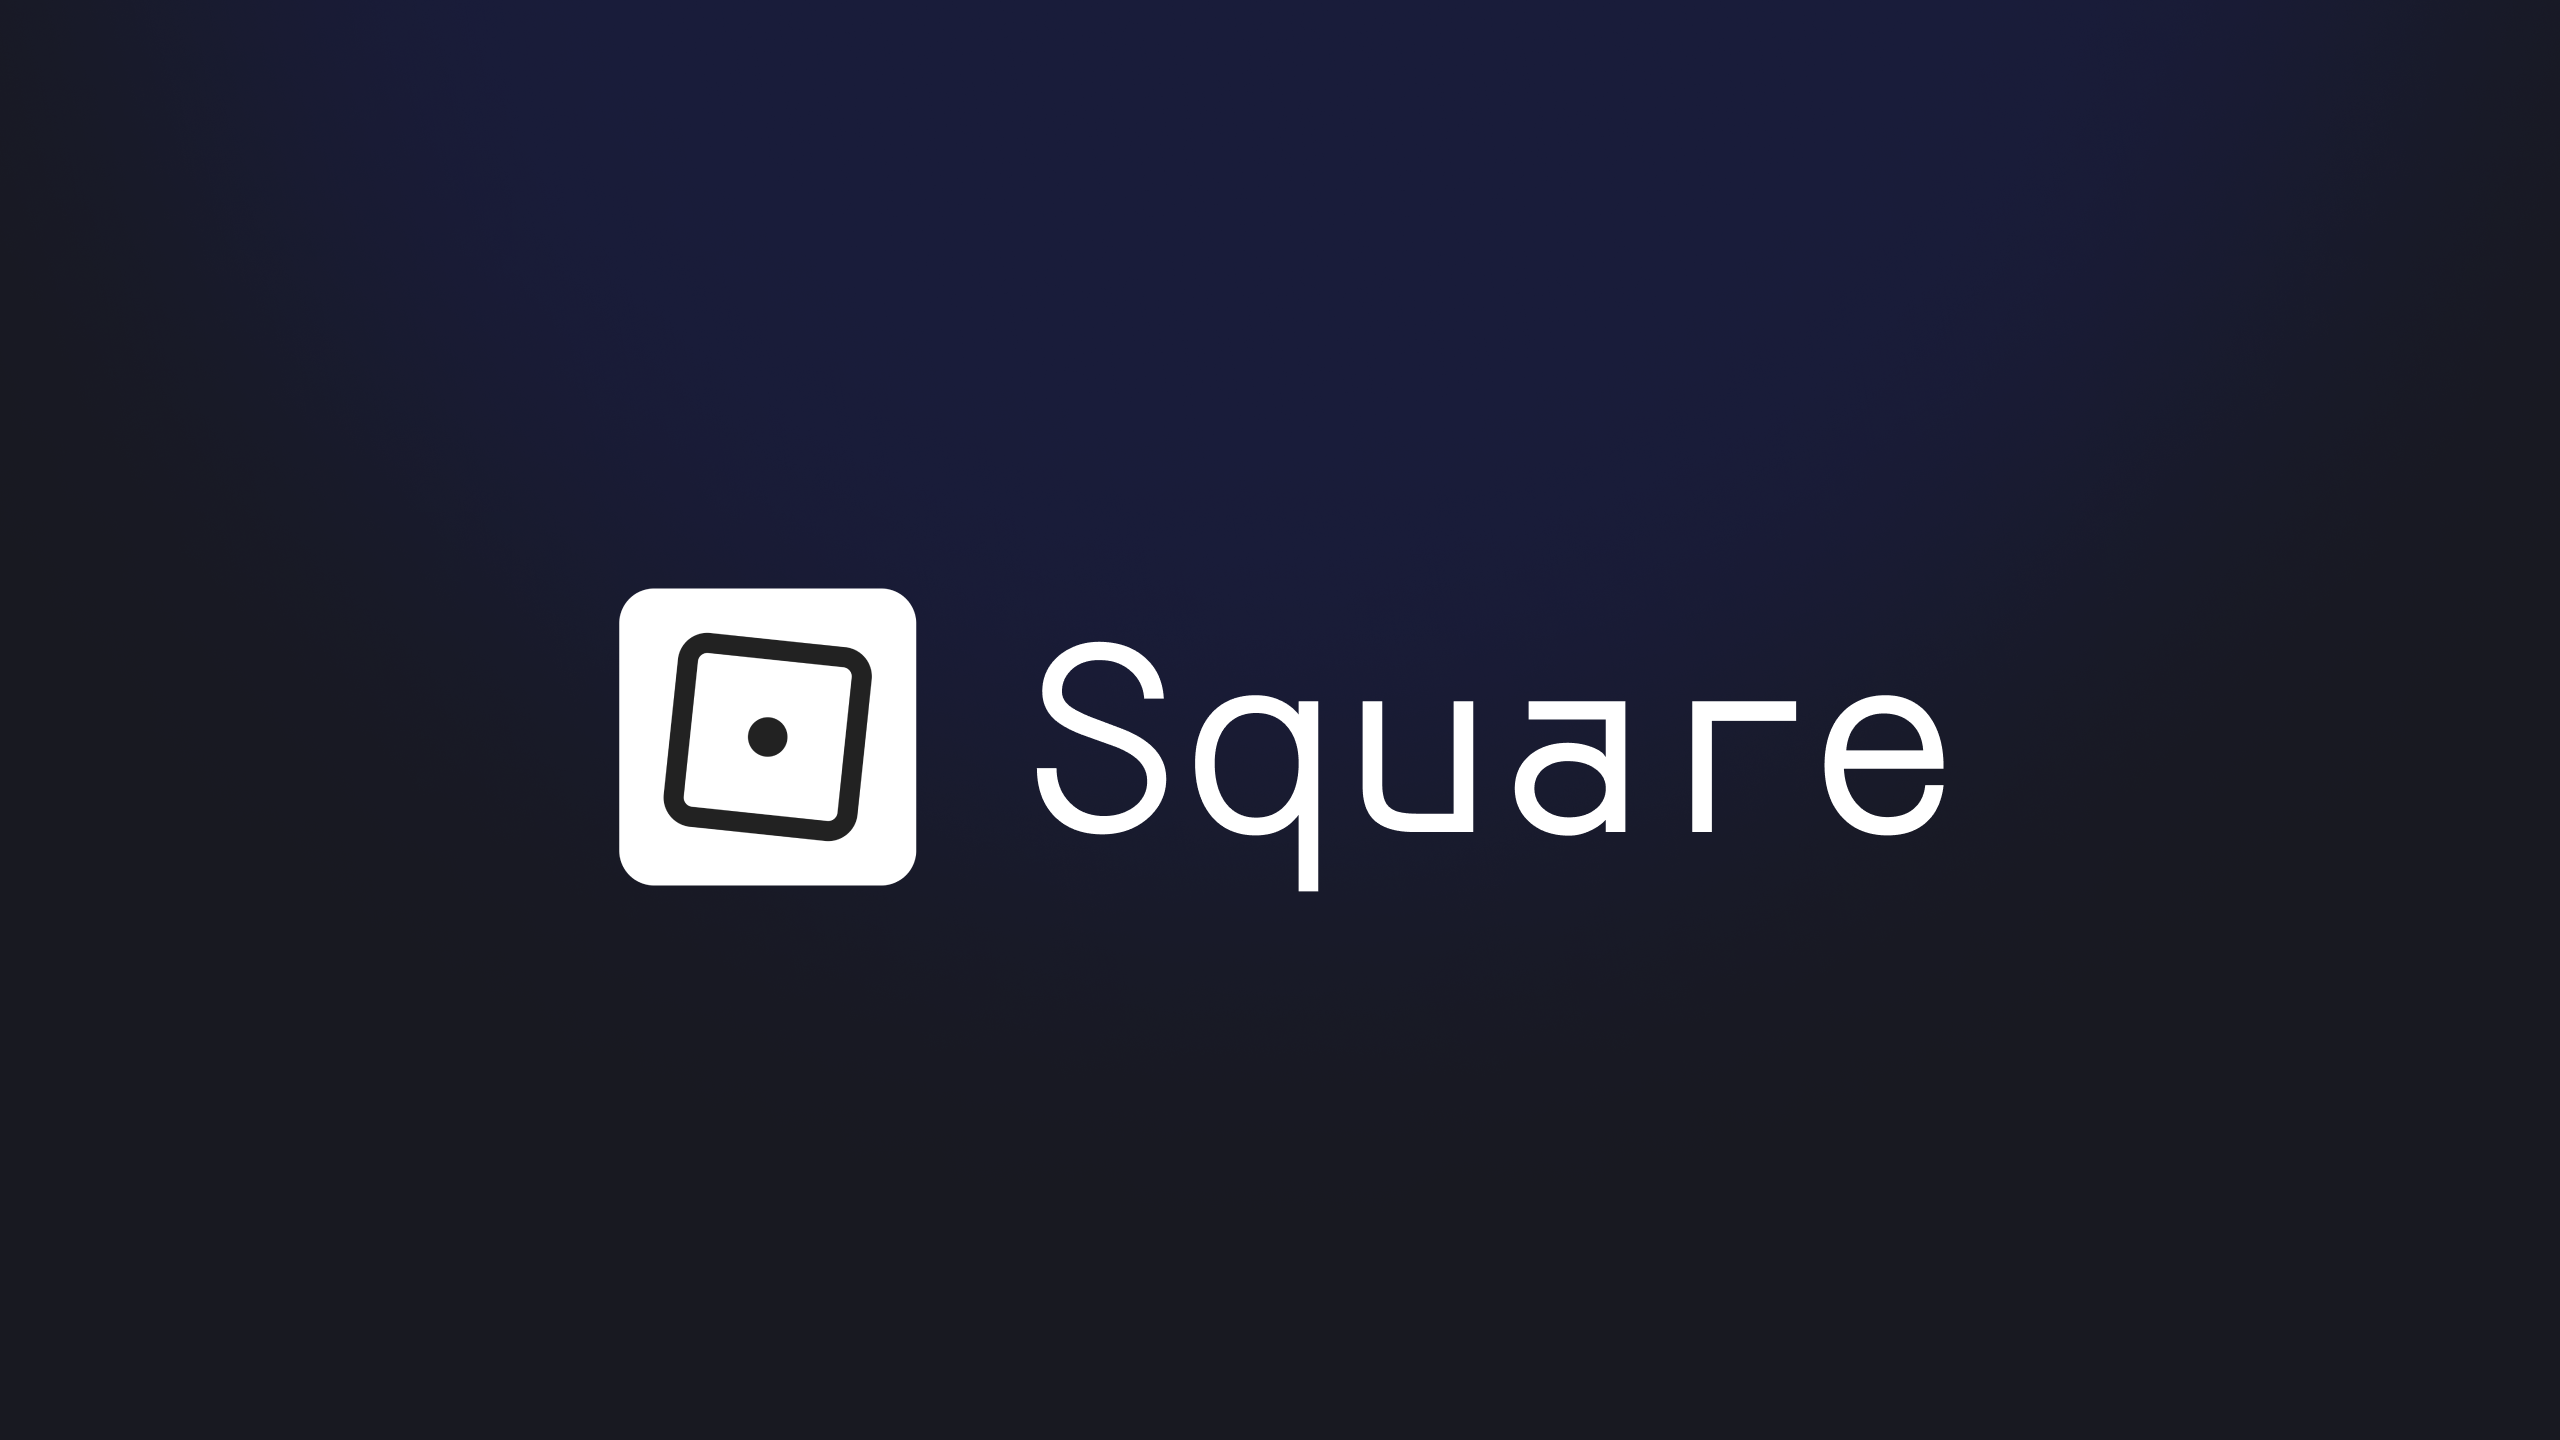
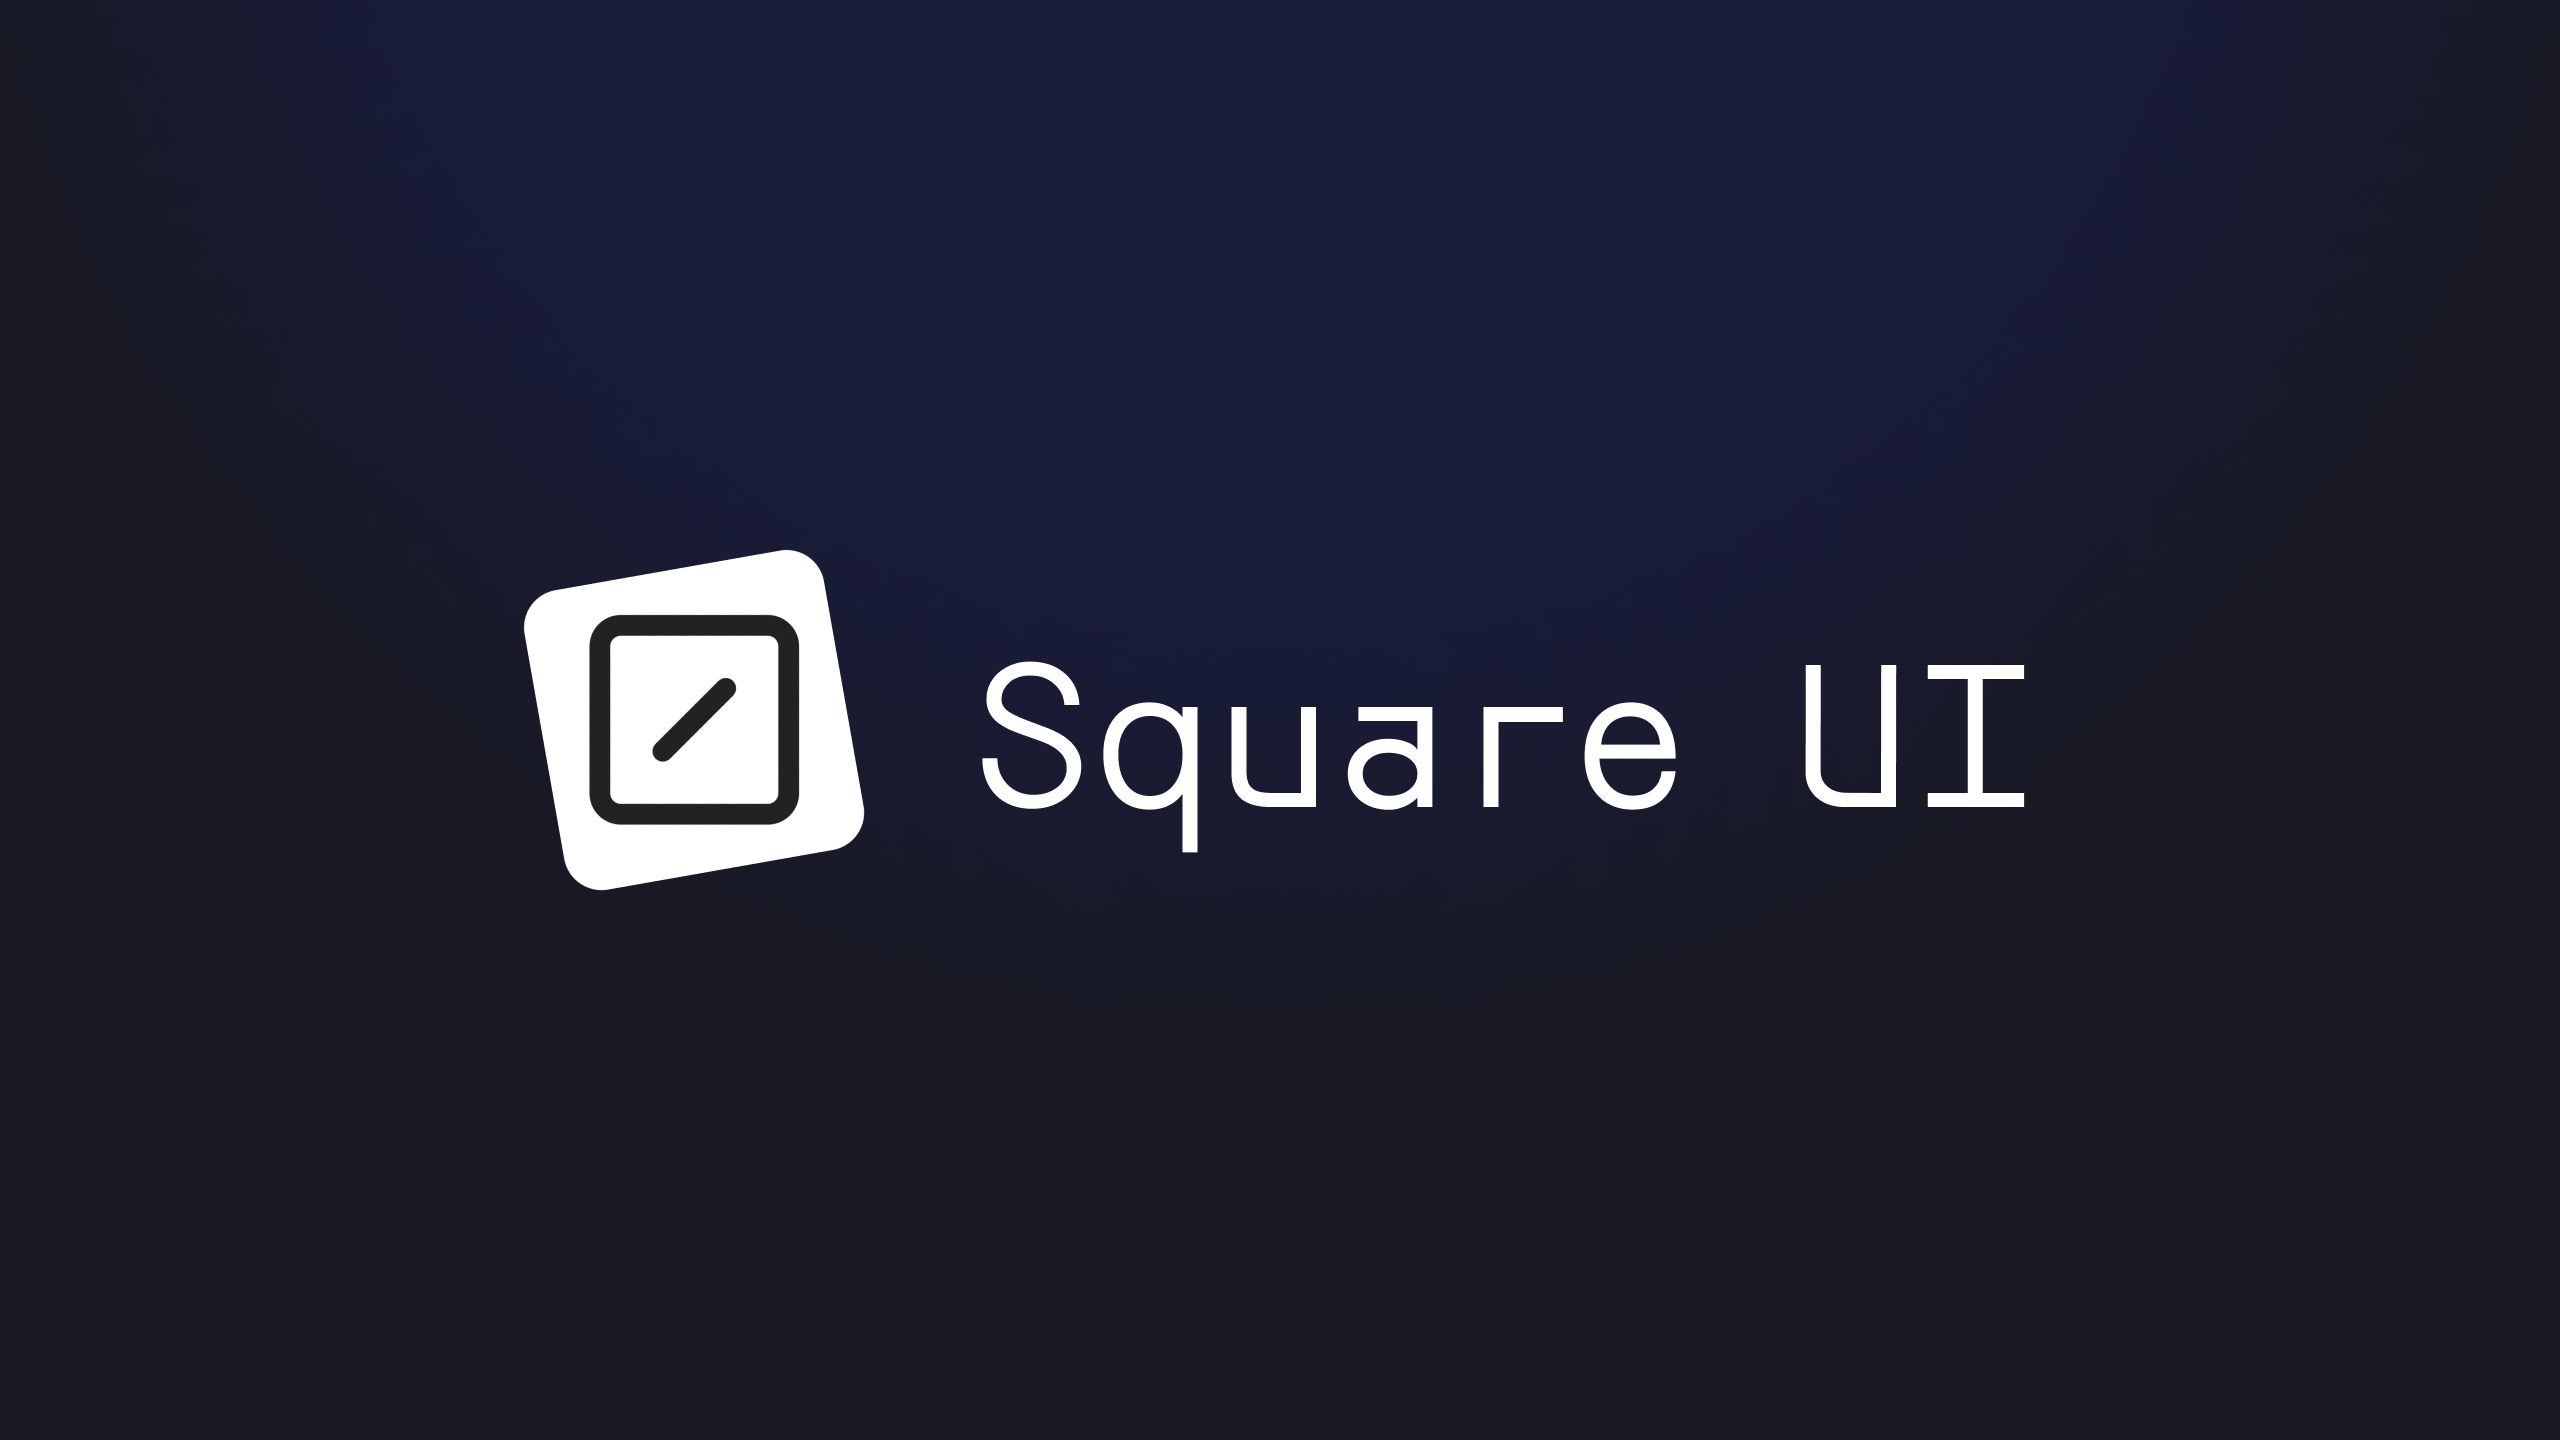
change square to square ui

Changed region(s): [[0.1875, 0.375, 0.7812, 0.625]]

diff --git a/home/src/app/layout.tsx b/home/src/app/layout.tsx
@@ -24,8 +24,8 @@ const siteUrl = 'https://square.lndev.me'
 
 export const metadata: Metadata = {
   title: {
-    template: '%s | Square by lndev-ui',
-    default: 'Square by lndev-ui',
+    template: '%s | Square UI by lndev-ui',
+    default: 'Square UI by lndev-ui',
   },
   description:
     'Collection of beautifully crafted open-source layouts UI built with shadcn/ui.',
@@ -33,13 +33,13 @@ export const metadata: Metadata = {
     type: 'website',
     locale: 'en_US',
     url: siteUrl,
-    siteName: 'Square',
+    siteName: 'Square UI',
     images: [
       {
         url: `${siteUrl}/banner.png`,
         width: 2560,
         height: 1440,
-        alt: 'Square by lndev-ui',
+        alt: 'Square UI by lndev-ui',
       },
     ],
   },
@@ -52,7 +52,7 @@ export const metadata: Metadata = {
         url: `${siteUrl}/banner.png`,
         width: 2560,
         height: 1440,
-        alt: 'Square',
+        alt: 'Square UI',
       },
     ],
   },

diff --git a/home/src/components/Intro.tsx b/home/src/components/Intro.tsx
@@ -35,12 +35,12 @@ export function Intro() {
           <Image
             src="/icon.svg"
             alt="Logo"
-            className="w-7 overflow-hidden rounded-lg sm:w-9"
+            className="w-7 rotate-[0deg] overflow-hidden rounded-lg sm:w-9"
             width={28}
             height={28}
           />
           <span className="text-xl font-bold text-white sm:text-3xl">
-            Square
+            Square UI
           </span>
         </Link>
       </div>
@@ -69,7 +69,7 @@ export function Intro() {
           Sponsor
         </IconLink>
         <IconLink
-          href="https://github.com/ln-dev7/square"
+          href="https://github.com/ln-dev7/square-ui"
           target="_blank"
           icon={GitHubIcon}
           className="flex-none"

diff --git a/LICENSE.md b/LICENSE.md
@@ -1,6 +1,6 @@
 MIT License
 
-Copyright (c) 2025 lndev-ui | Square 
+Copyright (c) 2025 lndev-ui | Square UI 
 
 Permission is hereby granted, free of charge, to any person obtaining a copy of this software and associated documentation files (the "Software"), to deal in the Software without restriction, including without limitation the rights to use, copy, modify, merge, publish, distribute, sublicense, and/or sell copies of the Software, and to permit persons to whom the Software is furnished to do so, subject to the following conditions:
 

diff --git a/README.md b/README.md
@@ -1,4 +1,4 @@
-# Square
+# Square UI
 
 Collection of beautifully crafted open-source layouts UI built with shadcn/ui.
 
@@ -17,8 +17,8 @@ Collection of beautifully crafted open-source layouts UI built with shadcn/ui.
 ### 📦 Installation
 
 ```shell
-git clone https://github.com/ln-dev7/square.git
-cd square
+git clone https://github.com/ln-dev7/square-ui.git
+cd square-ui
 ```
 
 ### Install dependencies
